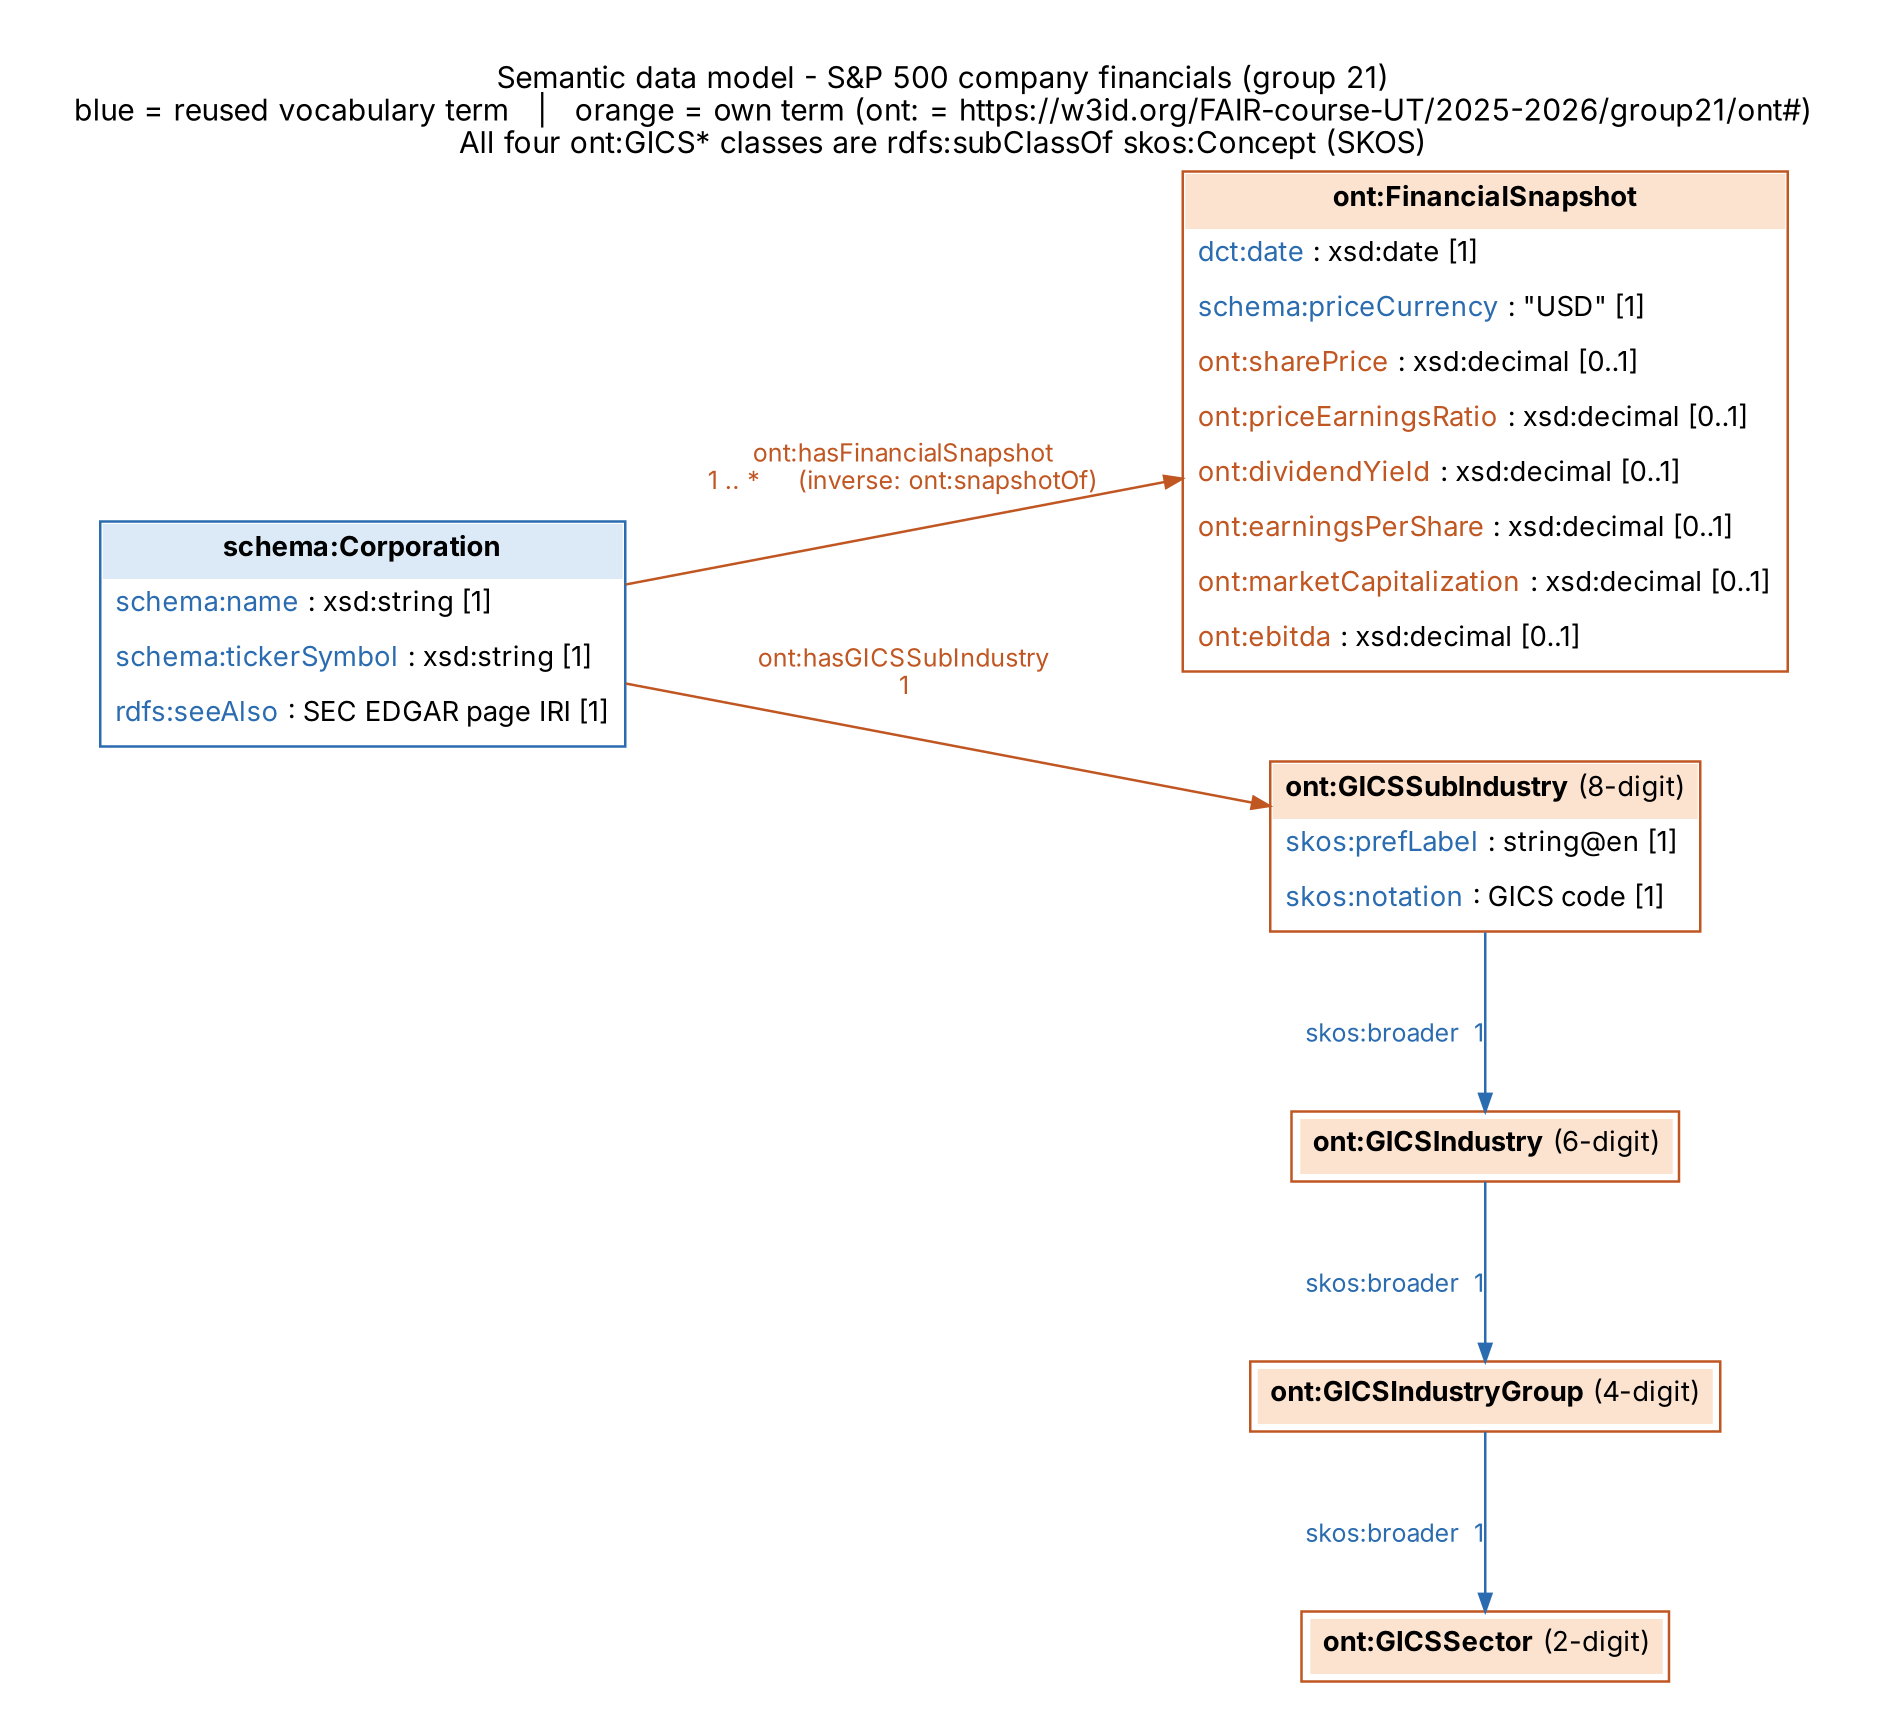
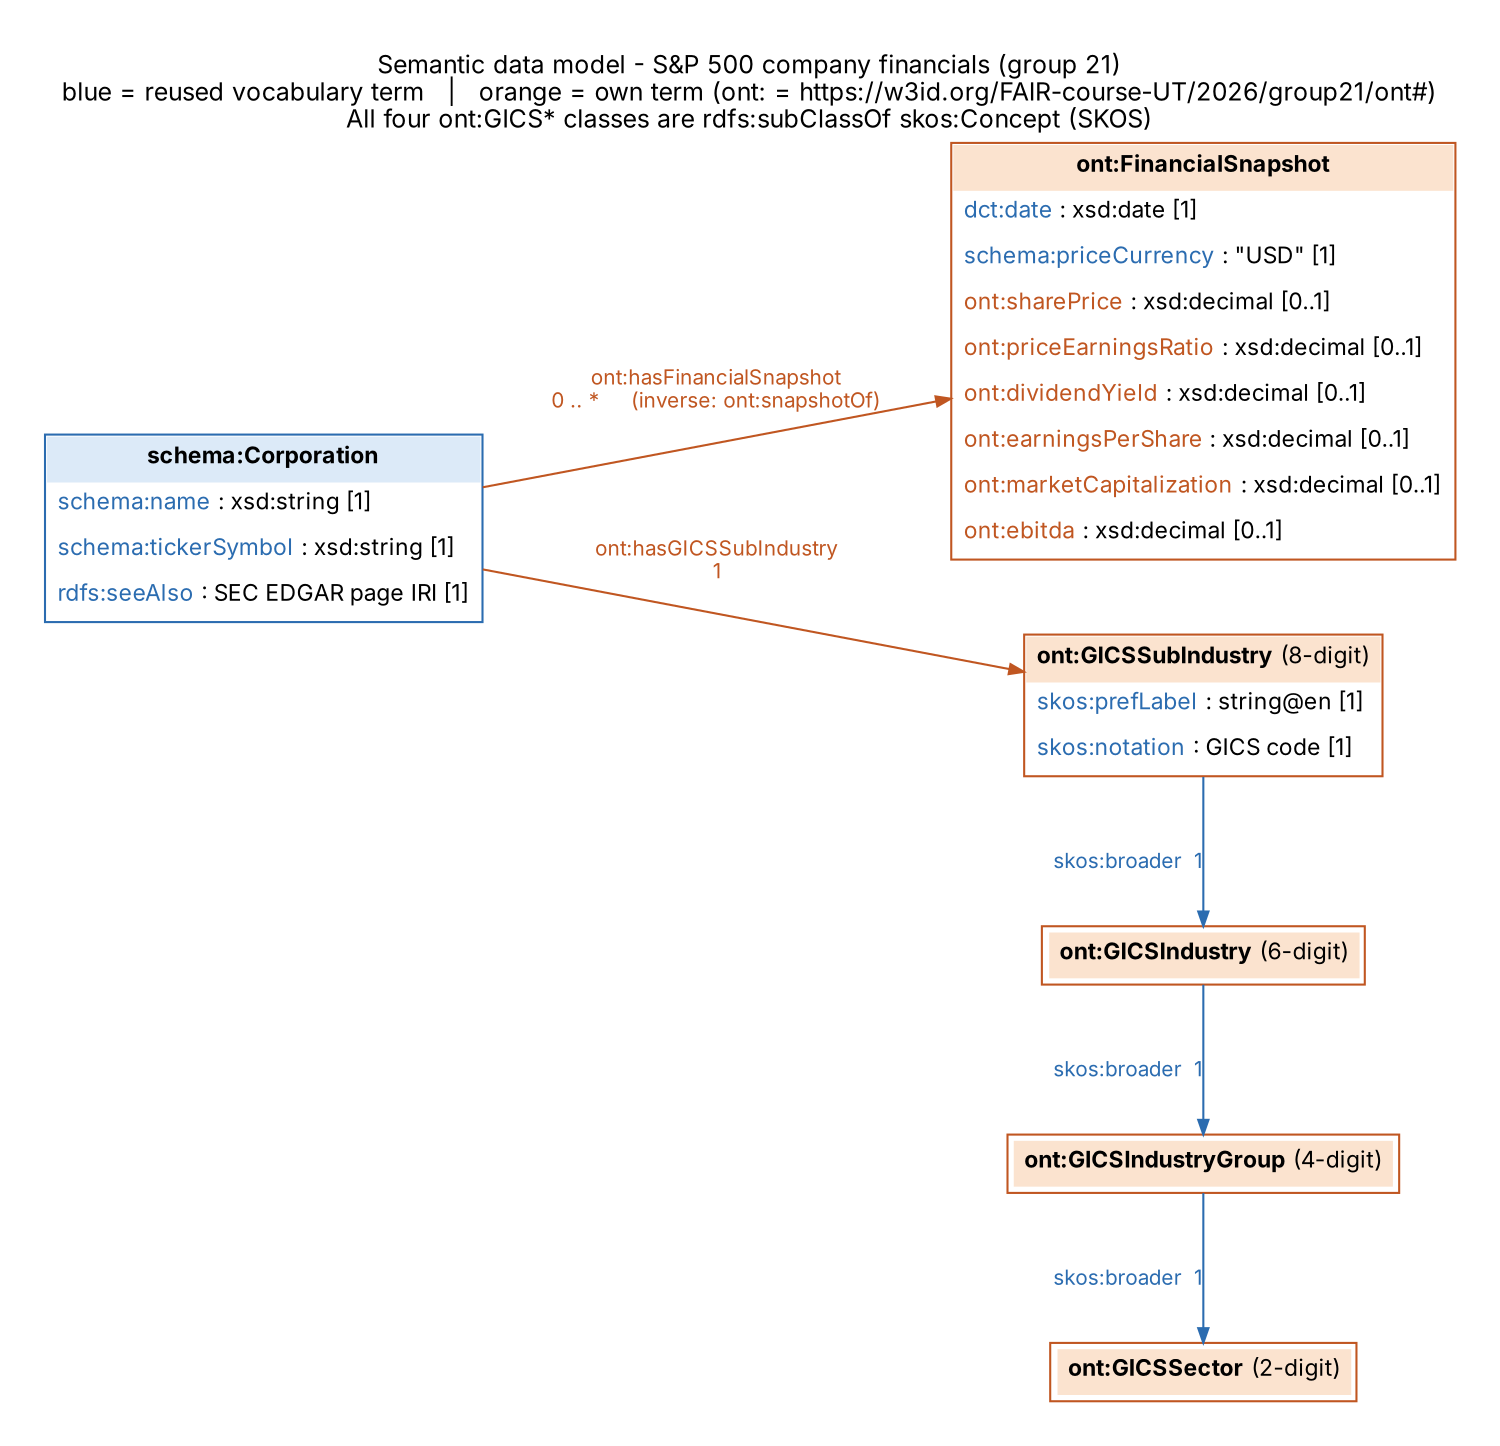
Fix SHACL shape references, update data model diagram and FAIRness assessment

diff --git a/docs/fairness-assessment.md b/docs/fairness-assessment.md
@@ -1,7 +1,7 @@
 # FAIRness assessment - before and after
 
 Scale: yes / partially / no. "Before" = the original DataHub file and its `datapackage.json`.
-"After" = the FAIRified RDF data, its DCAT metadata in the FAIR Data Point and the w3id identifiers.
+"After" = the FAIRified RDF data, its DCAT metadata records (published as RDF with w3id identifiers) and the w3id identifiers.
 
 ## Data
 
@@ -13,11 +13,11 @@ Scale: yes / partially / no. "Before" = the original DataHub file and its `datap
 | F2 | Has rich metadata | partially | yes | Before: title, description, column descriptions; no keywords, theme, date; `Sector` mis-described |
 | F3 | Data identifier in metadata | partially | yes | Before: relative path `data/constituents-financials.csv` |
 | F3 | Data identifier with clear predicate | no | yes | `dcat:downloadURL` |
-| F4 | Indexed in a searchable resource | yes | partially | DataHub is searchable; the local FDP is not harvested publicly |
+| F4 | Indexed in a searchable resource | yes | partially | The original stays indexed on DataHub; the FAIRified version is in a public GitHub repository but not registered in a FAIR Data Point or catalogue |
 | A1 | Resolution protocol | yes | yes | HTTPS |
 | A1.1 | Open, free, universally implementable | yes | yes | HTTPS |
 | A1.2 | Supports authentication/authorisation | yes | yes | Supported by HTTPS; not needed (public-domain data) |
-| A2 | Metadata persist longer than data | no | partially | Metadata now kept in the FDP, separate from the data file |
+| A2 | Metadata persist longer than data | no | partially | Metadata records are separate files with their own identifiers, but stored in the same repository as the data |
 | I1 | Formal knowledge-representation language | no | yes | CSV with free-text headers -> RDF |
 | I2 | FAIR vocabularies | no | yes | schema.org, SKOS, Dublin Core; own terms published under w3id |
 | I3 | Qualified references to other data | no | partially | `rdfs:seeAlso` SEC EDGAR, `skos:broader` GICS hierarchy; no Wikidata links yet |
@@ -30,13 +30,13 @@ Scale: yes / partially / no. "Before" = the original DataHub file and its `datap
 
 | Principle | Criterion | Before | After | Note |
 |---|---|---|---|---|
-| F1 | Globally unique identifier | no | yes | Before: `datapackage.json` has no identifier of its own. After: each FDP record has a URI |
-| F1 | Persistent identifier | no | yes | Each record has a w3id PID (`.../group21/metadata/dataset` etc.); the FDP copies have local (`localhost`) URIs |
-| F2 | Rich metadata | partially | yes | DCAT dataset + 2 distributions with 14 / 9 properties |
+| F1 | Globally unique identifier | no | yes | Before: `datapackage.json` has no identifier of its own. After: each metadata record has its own w3id IRI |
+| F1 | Persistent identifier | no | yes | Each record has a w3id PID (`.../group21/metadata/dataset` etc.) |
+| F2 | Rich metadata | partially | yes | DCAT dataset (14 properties) and 2 distributions (9 properties each) |
 | F3 | Includes data identifier | partially | yes | `dcat:distribution`, `dcat:downloadURL` |
-| F4 | Indexed | yes | partially | Local FDP |
-| A1 / A1.1 | Standard open protocol | yes | yes | HTTPS, FDP REST API |
-| A2 | Available when data are gone | no | yes | Stored in FDP/GraphDB independently of the data files |
+| F4 | Indexed | yes | no | Records are public on GitHub, but not registered in a FAIR Data Point or index |
+| A1 / A1.1 | Standard open protocol | yes | yes | HTTPS |
+| A2 | Available when data are gone | no | partially | Separate files with their own identifiers, but in the same repository as the data |
 | I1 | Formal language | partially | yes | JSON (Frictionless) -> RDF |
 | I2 | FAIR vocabularies | no | yes | DCAT 2, Dublin Core, PROV-O, FOAF, EU data themes |
 | I3 | Qualified references | no | yes | `dct:source`, `prov:wasDerivedFrom`, `dct:conformsTo` |

diff --git a/README.md b/README.md
@@ -1,6 +1,6 @@
 # FAIRification of the S&P 500 company financials dataset
 
-Project for **FAIR Data Engineering (University of Twente, 2025-2026)**, group 21 (Priyansh Bansal).
+Project for **FAIR Data Engineering (University of Twente, 2026-2027)**, group 21 (Priyansh Bansal).
 
 The dataset [S&P 500 Companies with Financial Information](https://datahub.io/core/s-and-p-500-companies-financials)
 (DataHub Core Datasets, ODC-PDDL-1.0) is taken through the FAIRification process: it is described with DCAT
@@ -74,7 +74,7 @@ python scripts/triplify.py    # cleaned CSV  -> ontology + RDF
   original metadata calls it "GICS sector classification". All 127 values were matched to their 8-digit GICS code,
   which also gives sector, industry group and industry through `skos:broader`.
 * 17 companies (e.g. Ansys, Hess, Juniper Networks, Marathon Oil) have no financial values; they keep their company
-  triples but get no snapshot. Missing values are omitted, never set to 0. 46 P/E values are missing (mostly negative earnings).
+  triples but get no snapshot. Missing values are omitted, never set to 0. 46 P/E values are missing: 17 from companies without any figures and 29 from companies with negative earnings, where P/E is not defined.
 
 ## Competency questions
 
